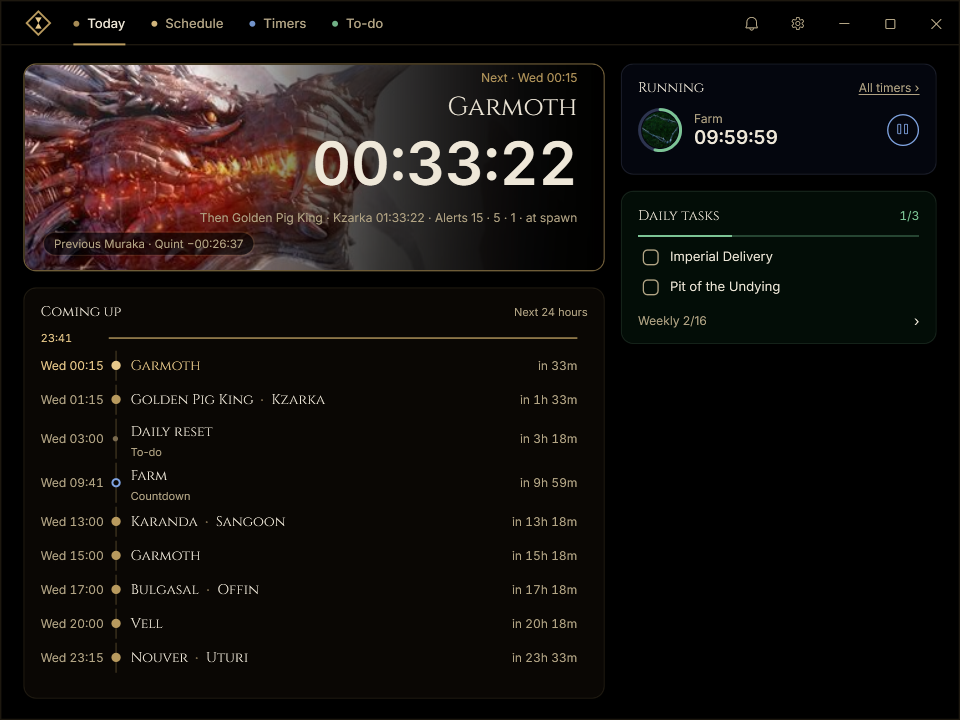
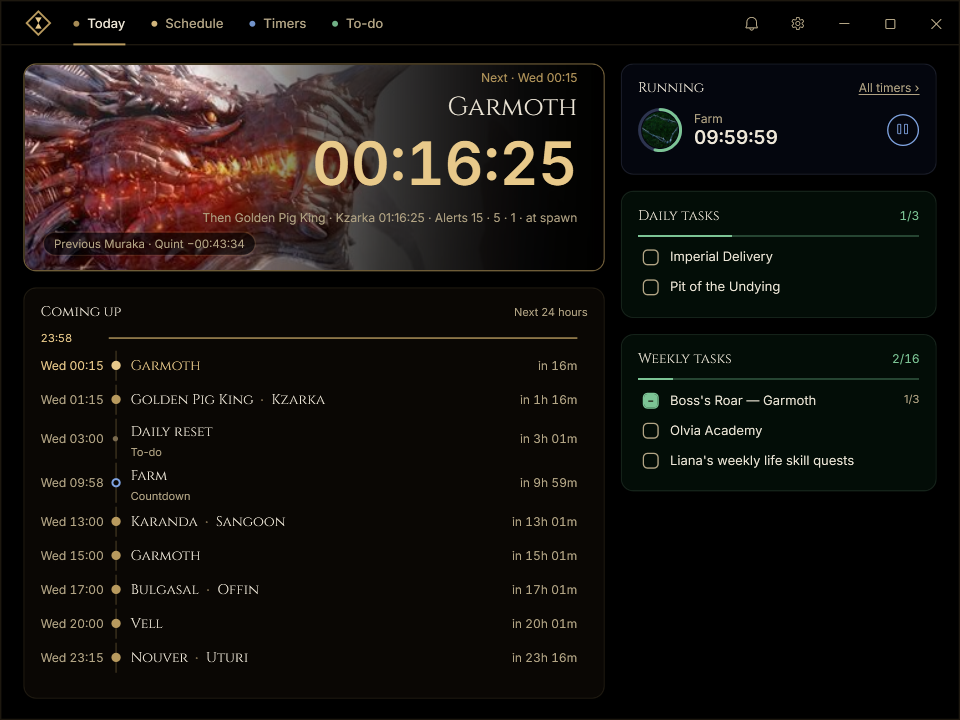
feat: Today lists the weekly tasks too, under the daily ones
A weekly task with sub-tasks is one line saying how far along it is; each panel counts the tasks that don't fit and
opens To-do from there. The weekly panel is gone while no weekly list is on.

diff --git a/src/BdoTimers.App/Views/TodayView.xaml b/src/BdoTimers.App/Views/TodayView.xaml
@@ -230,8 +230,8 @@
             </Button>
         </DataTemplate>
 
-        <!-- A daily task: the list's name above the first of its tasks when more than one list is on -->
-        <DataTemplate DataType="{x:Type vm:DailyTask}">
+        <!-- A task: the list's name above the first of its tasks when more than one list is on -->
+        <DataTemplate DataType="{x:Type vm:ListedTask}">
             <StackPanel>
                 <TextBlock Text="{Binding ListName}" Style="{StaticResource LabelText}" Margin="0,6,0,0"
                            Visibility="{Binding ListName, Converter={StaticResource NullToCollapsed}}" />
@@ -248,10 +248,34 @@
                 </DockPanel>
             </StackPanel>
         </DataTemplate>
+
+        <!-- A task panel: its heading and how far along it is, what is still open, and the way on to To-do -->
+        <DataTemplate DataType="{x:Type vm:TaskPanelViewModel}">
+            <StackPanel>
+                <DockPanel>
+                    <TextBlock DockPanel.Dock="Right" Text="{Binding Summary}" FontSize="12" Foreground="{DynamicResource GoodBrush}"
+                               Typography.NumeralAlignment="Tabular" VerticalAlignment="Center"
+                               Visibility="{Binding HasLists, Converter={StaticResource BoolToVisibility}}" />
+                    <TextBlock Text="{Binding Heading}" Style="{StaticResource PanelHeading}" />
+                </DockPanel>
+                <ProgressBar Style="{StaticResource TodoProgress}" Value="{Binding Fraction, Mode=OneWay}" Margin="0,10,0,6"
+                             AutomationProperties.Name="Progress" Visibility="{Binding HasLists, Converter={StaticResource BoolToVisibility}}" />
+                <ItemsControl ItemsSource="{Binding Tasks}" Focusable="False" />
+                <TextBlock Text="No active list" Style="{StaticResource LabelText}" Margin="0,10,0,0"
+                           Visibility="{Binding HasLists, Converter={StaticResource InverseBoolToVisibility}}" />
+                <Button Style="{StaticResource NameButton}" HorizontalAlignment="Stretch" Command="{Binding ShowTodoCommand}"
+                        AutomationProperties.Name="To-do" Visibility="{Binding Footer, Converter={StaticResource NullToCollapsed}}">
+                    <DockPanel Margin="0,9,0,0">
+                        <TextBlock DockPanel.Dock="Right" Text="&#8250;" FontSize="14" VerticalAlignment="Center" />
+                        <TextBlock Text="{Binding Footer}" FontSize="12" Foreground="{DynamicResource SubtleBrush}" VerticalAlignment="Center" />
+                    </DockPanel>
+                </Button>
+            </StackPanel>
+        </DataTemplate>
     </UserControl.Resources>
 
-    <!-- Wide: the hero over Coming up, and Running over Daily tasks in a column of their own. Narrow: one column,
-         hero, Running, Coming up, Daily tasks. The code-behind moves the four panels between the hosts. -->
+    <!-- Wide: the hero over Coming up, and Running over the daily and weekly tasks in a column of their own. Narrow: one
+         column, hero, Running, Coming up, Daily tasks, Weekly tasks. The code-behind moves the panels between the hosts. -->
     <Grid x:Name="Layout">
         <Grid.ColumnDefinitions>
             <ColumnDefinition Width="*" />
@@ -365,50 +389,13 @@
                         <ItemsControl ItemsSource="{Binding Running}" ItemTemplate="{StaticResource RunningRow}" Focusable="False" />
                     </StackPanel>
                 </Border>
-                <Border x:Name="DailyPanel" Style="{StaticResource ForestPanel}" DataContext="{Binding Daily}">
-                    <StackPanel>
-                        <DockPanel>
-                            <TextBlock DockPanel.Dock="Right" Text="{Binding Summary}" FontSize="12" Foreground="{DynamicResource GoodBrush}"
-                                       Typography.NumeralAlignment="Tabular" VerticalAlignment="Center"
-                                       Visibility="{Binding HasLists, Converter={StaticResource BoolToVisibility}}" />
-                            <TextBlock Text="Daily tasks" Style="{StaticResource PanelHeading}" />
-                        </DockPanel>
-                        <ProgressBar Style="{StaticResource TodoProgress}" Value="{Binding Fraction, Mode=OneWay}" Margin="0,10,0,6"
-                                     AutomationProperties.Name="Progress" Visibility="{Binding HasLists, Converter={StaticResource BoolToVisibility}}" />
-                        <ItemsControl ItemsSource="{Binding Tasks}" Focusable="False" />
-                        <TextBlock Text="No active list" Style="{StaticResource LabelText}" Margin="0,10,0,0"
-                                   Visibility="{Binding HasLists, Converter={StaticResource InverseBoolToVisibility}}" />
-                        <Button Style="{StaticResource NameButton}" HorizontalAlignment="Stretch" Command="{Binding ShowTodoCommand}"
-                                AutomationProperties.Name="To-do">
-                            <DockPanel Margin="0,9,0,0">
-                                <TextBlock DockPanel.Dock="Right" Text="›" FontSize="14" VerticalAlignment="Center" />
-                                <TextBlock Text="{Binding Weekly}" FontSize="12" Foreground="{DynamicResource SubtleBrush}" VerticalAlignment="Center">
-                                    <TextBlock.Style>
-                                        <Style TargetType="TextBlock">
-                                            <Setter Property="Visibility" Value="Visible" />
-                                            <Style.Triggers>
-                                                <DataTrigger Binding="{Binding Weekly}" Value="{x:Null}">
-                                                    <Setter Property="Visibility" Value="Collapsed" />
-                                                </DataTrigger>
-                                            </Style.Triggers>
-                                        </Style>
-                                    </TextBlock.Style>
-                                </TextBlock>
-                                <TextBlock Text="To-do" FontSize="12" Foreground="{DynamicResource SubtleBrush}" VerticalAlignment="Center">
-                                    <TextBlock.Style>
-                                        <Style TargetType="TextBlock">
-                                            <Setter Property="Visibility" Value="Collapsed" />
-                                            <Style.Triggers>
-                                                <DataTrigger Binding="{Binding Weekly}" Value="{x:Null}">
-                                                    <Setter Property="Visibility" Value="Visible" />
-                                                </DataTrigger>
-                                            </Style.Triggers>
-                                        </Style>
-                                    </TextBlock.Style>
-                                </TextBlock>
-                            </DockPanel>
-                        </Button>
-                    </StackPanel>
+                <Border x:Name="DailyPanel" Style="{StaticResource ForestPanel}" Margin="0,0,0,16">
+                    <ContentControl Content="{Binding Daily}" Focusable="False" />
+                </Border>
+                <!-- Off when no weekly list is on -->
+                <Border x:Name="WeeklyPanel" Style="{StaticResource ForestPanel}" Margin="0,0,0,16"
+                        Visibility="{Binding Weekly.HasLists, Converter={StaticResource BoolToVisibility}}">
+                    <ContentControl Content="{Binding Weekly}" Focusable="False" />
                 </Border>
             </StackPanel>
         </ScrollViewer>

diff --git a/tests/BdoTimers.App.Tests/TodayViewModelTests.cs b/tests/BdoTimers.App.Tests/TodayViewModelTests.cs
@@ -165,18 +165,19 @@ public class TodayViewModelTests
     public void Daily_tasks_show_the_open_rows_of_the_active_daily_lists_and_count_the_progress() => WithServices(services =>
     {
         var daily = services.Todos.Current.Lists.First(l => l.Cadence == TodoCadence.Daily);
-        var weekly = services.Todos.Current.Lists.First(l => l.Cadence == TodoCadence.Weekly);
-        var tasks = new DailyTasksViewModel(services, new TodoViewModel(services, new Host()), () => { });
+        var tasks = new TaskPanelViewModel(services, new TodoViewModel(services, new Host()), () => { }, TodoCadence.Daily);
         Assert.False(tasks.HasLists);
+        Assert.Equal("To-do", tasks.Footer);
+        Assert.Equal("Daily tasks", tasks.Heading);
 
         services.Todos.SetEnabled(daily.Id, true);
         var todo = new TodoViewModel(services, new Host());
-        tasks = new DailyTasksViewModel(services, todo, () => { });
+        tasks = new TaskPanelViewModel(services, todo, () => { }, TodoCadence.Daily);
 
         Assert.True(tasks.HasLists);
         Assert.Equal(3, tasks.Tasks.Count);
         Assert.Equal("0/3", tasks.Summary);
-        Assert.Null(tasks.Weekly);
+        Assert.Null(tasks.Footer);
 
         services.Todos.Toggle(daily.Id, daily.Rows[0].Id);
         WpfTest.Drain();
@@ -184,10 +185,45 @@ public class TodayViewModelTests
         Assert.Equal(2, tasks.Tasks.Count);
         Assert.Equal("1/3", tasks.Summary);
         Assert.Equal(1.0 / 3, tasks.Fraction, 3);
+    });
+
+    [Fact]
+    public void Weekly_tasks_show_the_open_top_level_tasks_with_how_far_along_each_is_and_count_what_does_not_fit() => WithServices(services =>
+    {
+        var weekly = services.Todos.Current.Lists.First(l => l.Cadence == TodoCadence.Weekly);
+        var todo = new TodoViewModel(services, new Host());
+        var panel = new TaskPanelViewModel(services, todo, () => { }, TodoCadence.Weekly);
+        Assert.False(panel.HasLists);
+        Assert.Equal("Weekly tasks", panel.Heading);
 
         services.Todos.SetEnabled(weekly.Id, true);
         WpfTest.Drain();
 
-        Assert.Equal("Weekly 0/16", tasks.Weekly);
+        Assert.True(panel.HasLists);
+        Assert.Equal("0/16", panel.Summary);
+        Assert.Equal(weekly.Rows.Select(row => row.Text), panel.Tasks.Select(task => task.Row.Text));
+        Assert.Null(panel.Footer);
+
+        // A task with sub-tasks stays on one line, saying how far along it is, until all of them are done.
+        var first = weekly.Rows.First(row => row.Children.Count > 1);
+        services.Todos.Toggle(weekly.Id, first.Children[0].Id);
+        WpfTest.Drain();
+
+        var line = Assert.Single(panel.Tasks, task => task.Row.Text == first.Text).Row;
+        Assert.Equal($"1/{first.Children.Count}", line.PartialProgress);
+        Assert.Equal("1/16", panel.Summary);
+        foreach (var child in first.Children.Skip(1)) services.Todos.Toggle(weekly.Id, child.Id);
+        WpfTest.Drain();
+
+        Assert.DoesNotContain(panel.Tasks, task => task.Row.Text == first.Text);
+
+        // Eight tasks of one line each: six show and the rest are counted.
+        services.Todos.ReplaceRows(weekly.Id, Enumerable.Range(1, 8).Select(n => new TodoRow { Text = $"Task {n}" }).ToList());
+        WpfTest.Drain();
+
+        Assert.Equal(6, panel.Tasks.Count);
+        Assert.Equal("+2 more", panel.Footer);
+        Assert.Equal("0/8", panel.Summary);
+        panel.ShowTodoCommand.Execute(null);
     });
 }

diff --git a/src/BdoTimers.App/ViewModels/TaskPanelViewModel.cs b/src/BdoTimers.App/ViewModels/TaskPanelViewModel.cs
@@ -1,0 +1,69 @@
+using System.Collections.ObjectModel;
+using BdoTimers.Core.Model;
+using CommunityToolkit.Mvvm.ComponentModel;
+using CommunityToolkit.Mvvm.Input;
+
+namespace BdoTimers.App.ViewModels;
+
+/// <summary>A task of a Today panel; the first of a list shows the list's name when more than one list is on.</summary>
+public sealed record ListedTask(string? ListName, TodoRowViewModel Row);
+
+/// <summary>
+/// One of Today's task panels, Daily or Weekly: what is still open in the active lists of its cadence (a task with
+/// sub-tasks is one line with how far along it is), how far along they are, and a way on to the To-do screen.
+/// </summary>
+public sealed partial class TaskPanelViewModel : ObservableObject
+{
+    /// <summary>Open tasks a panel has room for; the rest are counted.</summary>
+    const int MaxTasks = 6;
+
+    readonly AppServices _services;
+    readonly TodoCadence _cadence;
+    readonly TodoViewModel _todo;
+    readonly Action _showTodo;
+
+    public ObservableCollection<ListedTask> Tasks { get; } = [];
+    [ObservableProperty] private bool _hasLists;
+    [ObservableProperty] private string _summary = "";
+    [ObservableProperty] private double _fraction;
+    /// <summary>"+2 more" when open tasks don't fit; "To-do" when no list is on; otherwise nothing. It opens the To-do screen.</summary>
+    [ObservableProperty] private string? _footer;
+
+    public TaskPanelViewModel(AppServices services, TodoViewModel todo, Action showTodo, TodoCadence cadence)
+    {
+        _services = services;
+        _cadence = cadence;
+        _todo = todo;
+        _showTodo = showTodo;
+        todo.Synced += Rebuild;
+        Rebuild();
+    }
+
+    public string Heading => _cadence == TodoCadence.Daily ? "Daily tasks" : "Weekly tasks";
+
+    [RelayCommand]
+    void ShowTodo() => _showTodo();
+
+    void Rebuild()
+    {
+        var lists = _services.Todos.Current.Lists.Where(l => !l.Deleted && l.Enabled && l.Cadence == _cadence).ToList();
+        var (done, total) = Count(lists);
+        HasLists = lists.Count > 0;
+        Summary = $"{done}/{total}";
+        Fraction = total == 0 ? 0 : (double)done / total;
+
+        var tasks = new List<ListedTask>();
+        foreach (var card in (_cadence == TodoCadence.Daily ? _todo.DailyOn : _todo.WeeklyOn))
+            foreach (var row in card.Rows.Where(r => r.Checked != true))
+                tasks.Add(new ListedTask(lists.Count > 1 && tasks.All(t => t.ListName != card.Name) ? card.Name : null, row));
+        Tasks.Clear();
+        foreach (var task in tasks.Take(MaxTasks)) Tasks.Add(task);
+        Footer = !HasLists ? "To-do" : tasks.Count > MaxTasks ? $"+{tasks.Count - MaxTasks} more" : null;
+    }
+
+    static (int Done, int Total) Count(IEnumerable<TodoList> lists)
+    {
+        var progress = lists.Select(l => TodoOps.Progress(l.Rows)).ToList();
+        return (progress.Sum(p => p.Done), progress.Sum(p => p.Total));
+    }
+}

diff --git a/src/BdoTimers.App/ViewModels/TodayViewModel.cs b/src/BdoTimers.App/ViewModels/TodayViewModel.cs
@@ -1,13 +1,14 @@
 using System.Collections.ObjectModel;
 using BdoTimers.App.ViewModels.Panels;
+using BdoTimers.Core.Model;
 using CommunityToolkit.Mvvm.ComponentModel;
 using CommunityToolkit.Mvvm.Input;
 
 namespace BdoTimers.App.ViewModels;
 
 /// <summary>
-/// The Today screen: the next spawn, what comes in the next 24 hours, the timers that are running and the daily tasks,
-/// put together from what the other screens already keep. The 1 Hz tick refreshes it while the window is shown.
+/// The Today screen: the next spawn, what comes in the next 24 hours, the timers that are running and the daily and weekly
+/// tasks, put together from what the other screens already keep. The 1 Hz tick refreshes it while the window is shown.
 /// </summary>
 public sealed partial class TodayViewModel : ObservableObject
 {
@@ -20,7 +21,8 @@ public sealed partial class TodayViewModel : ObservableObject
 
     public HeroViewModel Hero { get; }
     public ComingUpViewModel ComingUp { get; }
-    public DailyTasksViewModel Daily { get; }
+    public TaskPanelViewModel Daily { get; }
+    public TaskPanelViewModel Weekly { get; }
     /// <summary>The Timers screen's countdowns and stopwatches that are running or paused, and Horse registration while one is under way.</summary>
     public ObservableCollection<TimerTileViewModel> Running { get; } = [];
     [ObservableProperty] private bool _hasRunning;
@@ -33,7 +35,8 @@ public sealed partial class TodayViewModel : ObservableObject
         _showTimers = showTimers;
         Hero = new HeroViewModel(services, id => TimerPanels.Open(services, host, id), openFollowing);
         ComingUp = new ComingUpViewModel(services, host);
-        Daily = new DailyTasksViewModel(services, todo, showTodo);
+        Daily = new TaskPanelViewModel(services, todo, showTodo, TodoCadence.Daily);
+        Weekly = new TaskPanelViewModel(services, todo, showTodo, TodoCadence.Weekly);
         Refresh(services.Clock.UtcNow);
     }
 

diff --git a/src/BdoTimers.App/Views/TodayView.xaml.cs b/src/BdoTimers.App/Views/TodayView.xaml.cs
@@ -12,13 +12,13 @@ public partial class TodayView : UserControl
 
     public TodayView() => InitializeComponent();
 
-    /// <summary>One column when the screen is narrow: hero, Running, Coming up, Daily tasks.</summary>
+    /// <summary>One column when the screen is narrow: hero, Running, Coming up, Daily tasks, Weekly tasks.</summary>
     void Root_SizeChanged(object sender, SizeChangedEventArgs e)
     {
         var wide = e.NewSize.Width >= WideWidth;
         if (wide == _wide) return;
         _wide = wide;
-        foreach (var panel in new FrameworkElement[] { Hero, RunningPanel, ComingUpPanel, DailyPanel })
+        foreach (var panel in new FrameworkElement[] { Hero, RunningPanel, ComingUpPanel, DailyPanel, WeeklyPanel })
             (panel.Parent as Panel)?.Children.Remove(panel);
         if (wide)
         {
@@ -26,6 +26,7 @@ public partial class TodayView : UserControl
             MainHost.Children.Add(ComingUpPanel);
             SideStack.Children.Add(RunningPanel);
             SideStack.Children.Add(DailyPanel);
+            SideStack.Children.Add(WeeklyPanel);
             Hero.Margin = new Thickness(0);
             ComingUpPanel.Margin = new Thickness(0, 16, 0, 0);
             ComingUpPanel.MaxHeight = double.PositiveInfinity;
@@ -33,7 +34,7 @@ public partial class TodayView : UserControl
         }
         else
         {
-            foreach (var panel in new FrameworkElement[] { Hero, RunningPanel, ComingUpPanel, DailyPanel })
+            foreach (var panel in new FrameworkElement[] { Hero, RunningPanel, ComingUpPanel, DailyPanel, WeeklyPanel })
             {
                 NarrowStack.Children.Add(panel);
                 panel.Margin = new Thickness(0, 0, 0, 16);

diff --git a/tests/BdoTimers.App.Tests/TodayViewTests.cs b/tests/BdoTimers.App.Tests/TodayViewTests.cs
@@ -64,7 +64,10 @@ public class TodayViewTests
 
                 Assert.False(side.IsVisible);
                 Assert.True(narrow.IsVisible);
-                Assert.True(((FrameworkElement)view.FindName("NarrowStack")).IsAncestorOf(hero));
+                var narrowStack = (FrameworkElement)view.FindName("NarrowStack");
+                Assert.True(narrowStack.IsAncestorOf(hero));
+                Assert.True(narrowStack.IsAncestorOf((FrameworkElement)view.FindName("DailyPanel")));
+                Assert.True(narrowStack.IsAncestorOf((FrameworkElement)view.FindName("WeeklyPanel")));
                 UiCapture.Save(window, "today-view-narrow.png");
 
                 window.Width = 960;
@@ -72,6 +75,9 @@ public class TodayViewTests
 
                 Assert.True(side.IsVisible);
                 Assert.True(((FrameworkElement)view.FindName("MainHost")).IsAncestorOf(hero));
+                var sideStack = (FrameworkElement)view.FindName("SideStack");
+                Assert.True(sideStack.IsAncestorOf((FrameworkElement)view.FindName("DailyPanel")));
+                Assert.True(sideStack.IsAncestorOf((FrameworkElement)view.FindName("WeeklyPanel")));
             }
             finally { window.Close(); }
         }

diff --git a/docs/manual-tests.md b/docs/manual-tests.md
@@ -9,7 +9,7 @@ Automated checks: `dotnet test tests/BdoTimers.Core.Tests`, `dotnet build src/Bd
 `pwsh scripts/test-windows.ps1`. Windows CI runs these without downloading the speech model or publishing an
 installer. The WPF tests use actual controls on an STA dispatcher for panel focus, keyboard navigation, command
 bindings and automation names. Release packaging and signing: [releasing.md](releasing.md).
-1. [ ] First launch: the window opens on Today, with the next spawn, Coming up and the daily tasks in local time; Schedule
+1. [ ] First launch: the window opens on Today, with the next spawn, Coming up and the daily and weekly tasks in local time; Schedule
    shows this week's grid; a "priority notifications" toast appears once.
 2. [ ] Settings (gear) → Test alert → Send: the alert sound, spoken "Test boss in 5 minutes", urgent toast.
 3. [ ] Timers → New timer → Countdown: set Duration 0:02 and alerts "1, At spawn"; press the round play button on its card → alert
@@ -322,8 +322,10 @@ bindings and automation names. Release packaging and signing: [releasing.md](rel
     times to each update as time passes.
     Running shows each started or paused timer with a ring that fills, its clock and Start / Pause, and "All timers ›"
     opens Timers; with none running the panel is gone. Daily tasks lists the open tasks of the active daily lists (at most
-    six), ticking one removes it and moves the line; "Weekly 1/16 ›" opens To-do. Below 820 px wide the screen is one
-    column: hero, Running, Coming up, Daily tasks.
+    six), ticking one removes it and moves the line; Weekly tasks does the same for the weekly lists, a task with
+    sub-tasks on one line saying how far along it is (ticking it ticks them all), and is gone while no weekly list is
+    on. Either panel says "+n more ›" when tasks don't fit, and that opens To-do. Below 820 px wide the screen is one
+    column: hero, Running, Coming up, Daily tasks, Weekly tasks.
 80. [ ] The top bar's next-boss chip shows on Schedule, Timers and To-do (not on Today) with the next spawn's names and
     clock in the same colours as the hero, and a click goes to Today. Its names are trimmed to the room between the tabs
     and the buttons and it is gone when there is under about 170 px of it (a narrow window, or the paused notice taking

diff --git a/README.md b/README.md
@@ -16,12 +16,12 @@
   <a href="CONTRIBUTING.md">Build &amp; contribute</a>
 </p>
 
-![Today with the next boss spawn, the next 24 hours, running timers and daily tasks](docs/images/today.png)
+![Today with the next boss spawn, the next 24 hours, running timers and daily and weekly tasks](docs/images/today.png)
 
 ## Today
 
 The next boss spawn counts down at the top, with the one after it and the alert times. Below it, the next 24 hours of
-spawns, timers and resets; on the right, the timers that are running and your daily tasks.
+spawns, timers and resets; on the right, the timers that are running and your daily and weekly tasks.
 
 ![Schedule with this week's boss spawns](docs/images/schedule.png)
 
